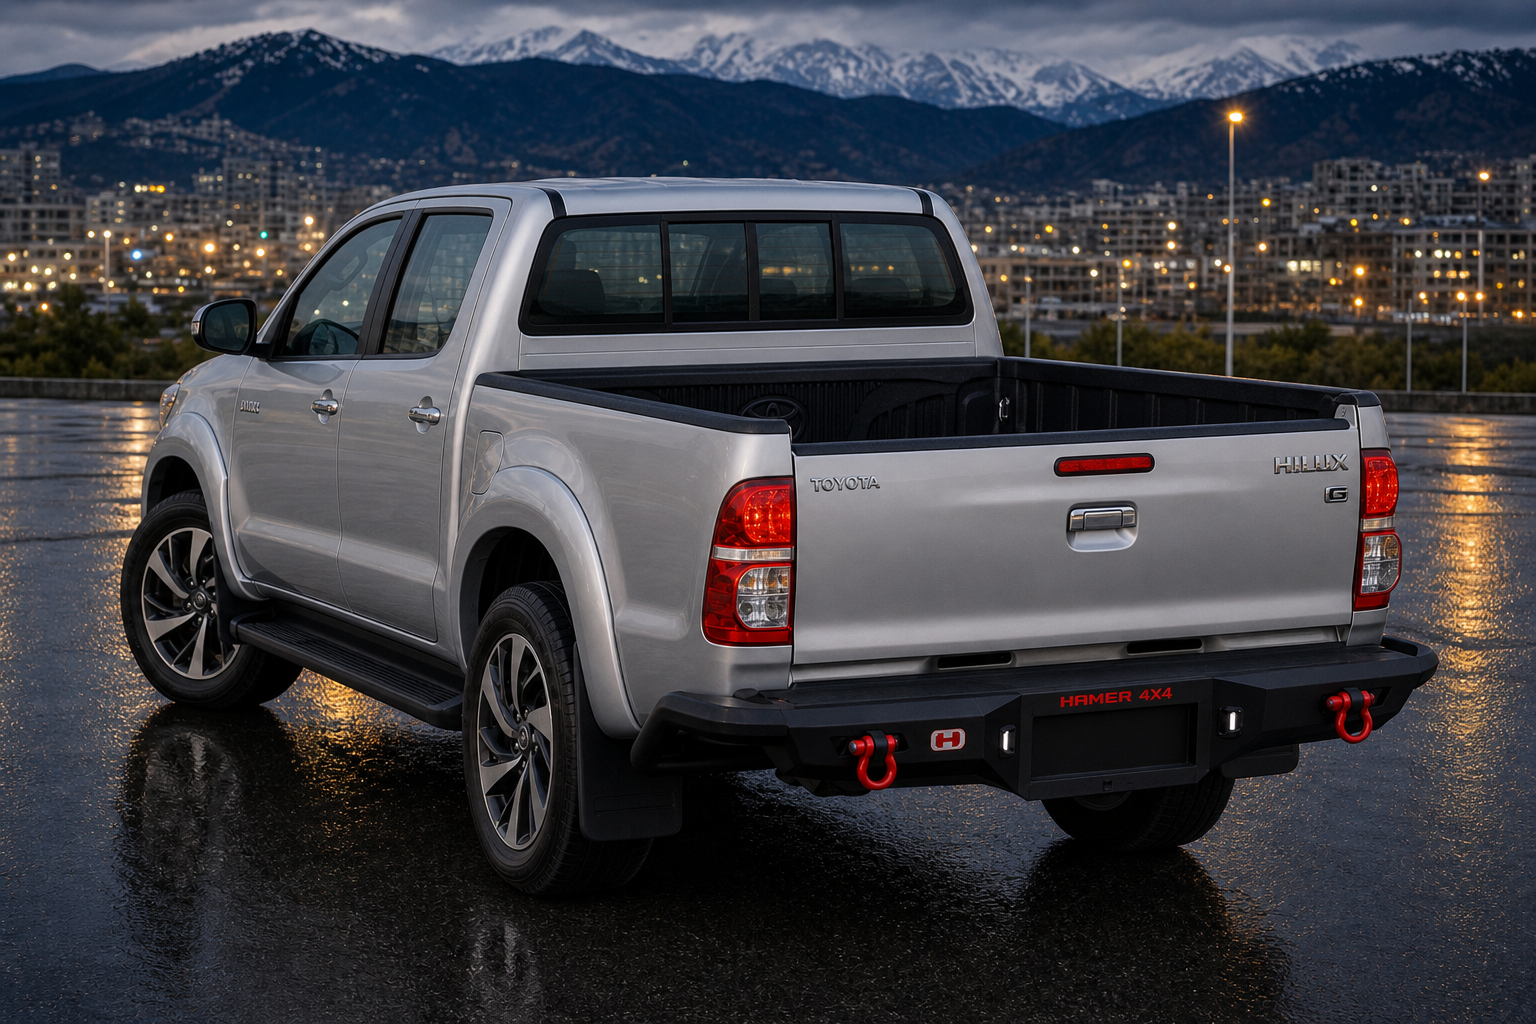
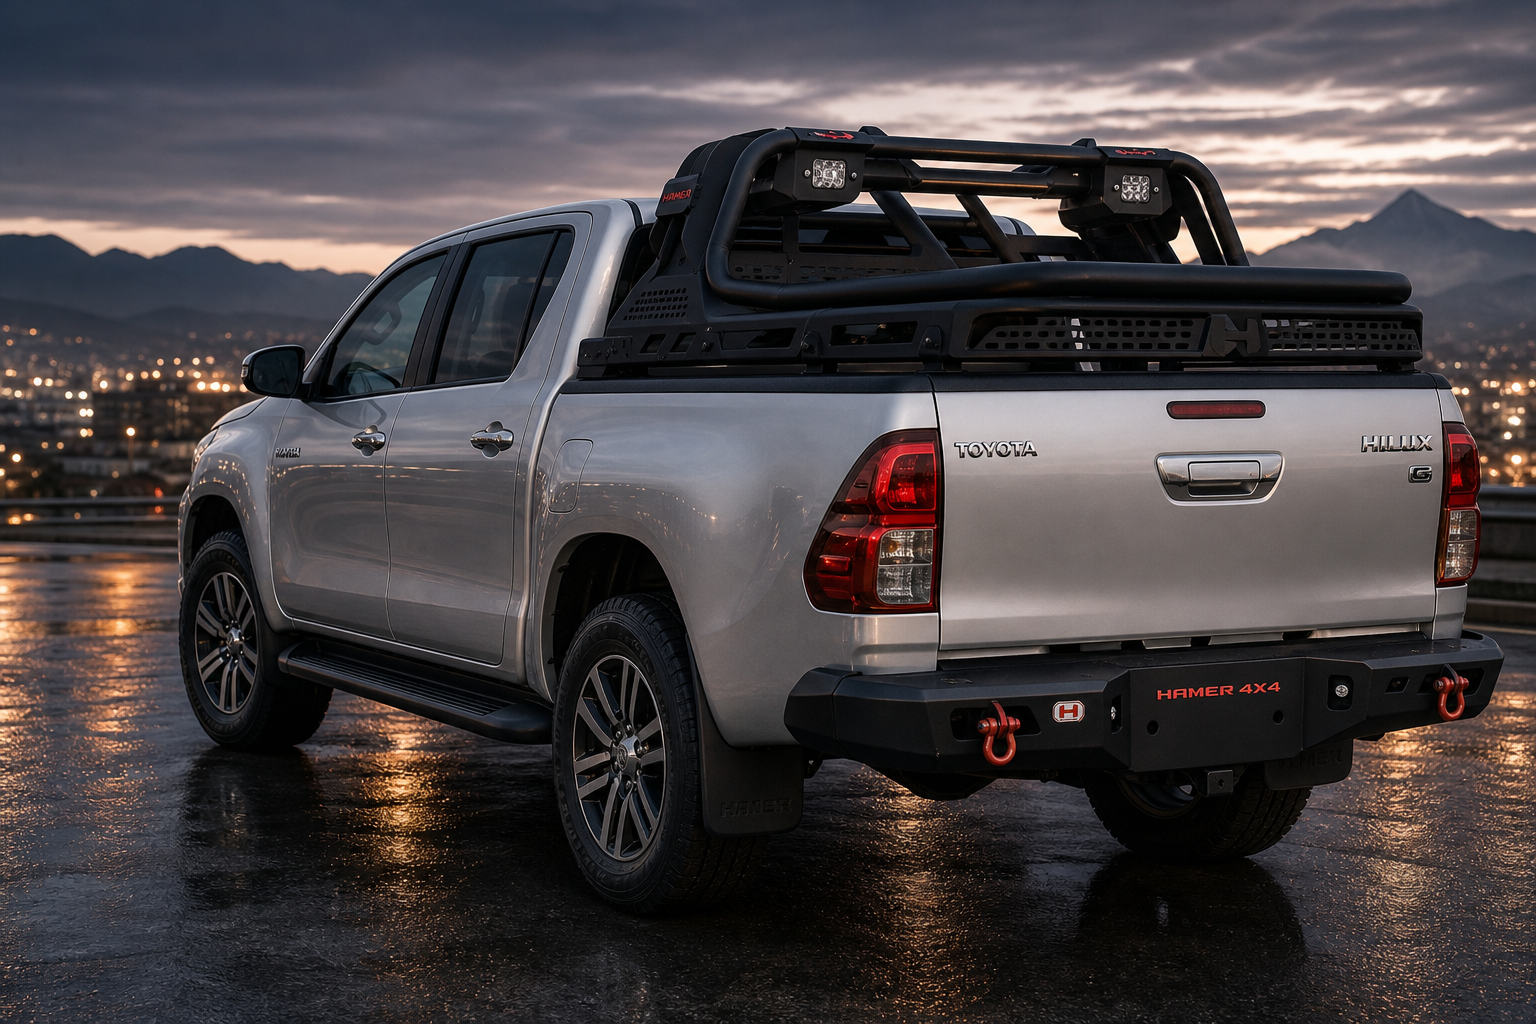
Add Hilux dala sports-bar grill while keeping dual HAMER front branding.

diff --git a/src/lib/data.ts b/src/lib/data.ts
@@ -92,7 +92,7 @@ export const defaultVehicles: Vehicle[] = [
     ],
     available: true,
     description:
-      "2009 silver Toyota Hilux Vigo — upgraded with Hamer heavy-duty front bull bar (HAMER branding) and matching Hamer rear bumper, open empty dala for cargo, side steps, and alloy wheels. Ready for hills, load work, and tough roads.",
+      "2009 silver Toyota Hilux Vigo — upgraded with Hamer heavy-duty front bull bar (HAMER branding top and bottom), matching Hamer rear bumper, black sports bar / bed grill on the dala, side steps, and alloy wheels. Ready for hills, load work, and tough roads.",
   },
   {
     id: "v7",
